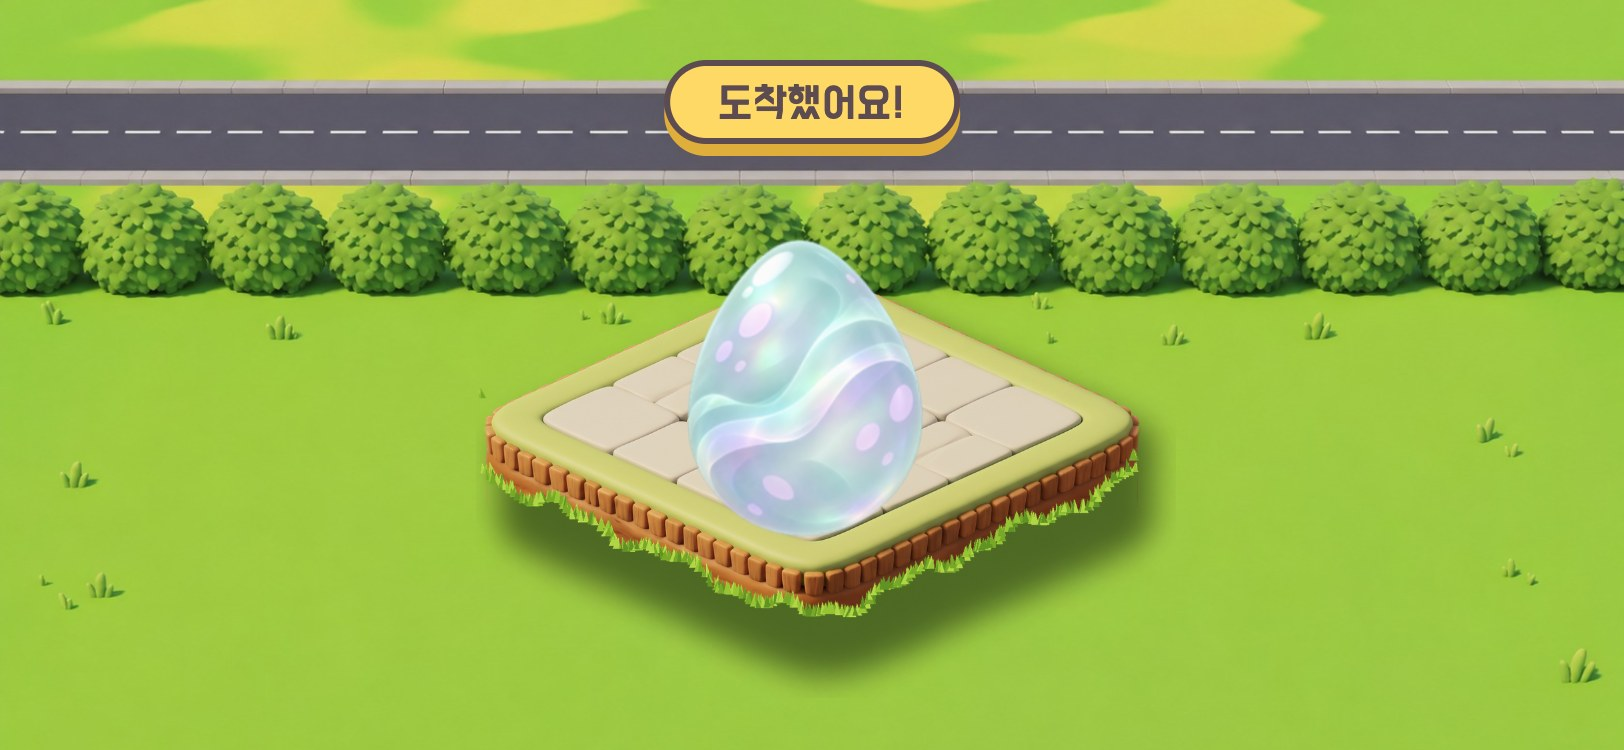
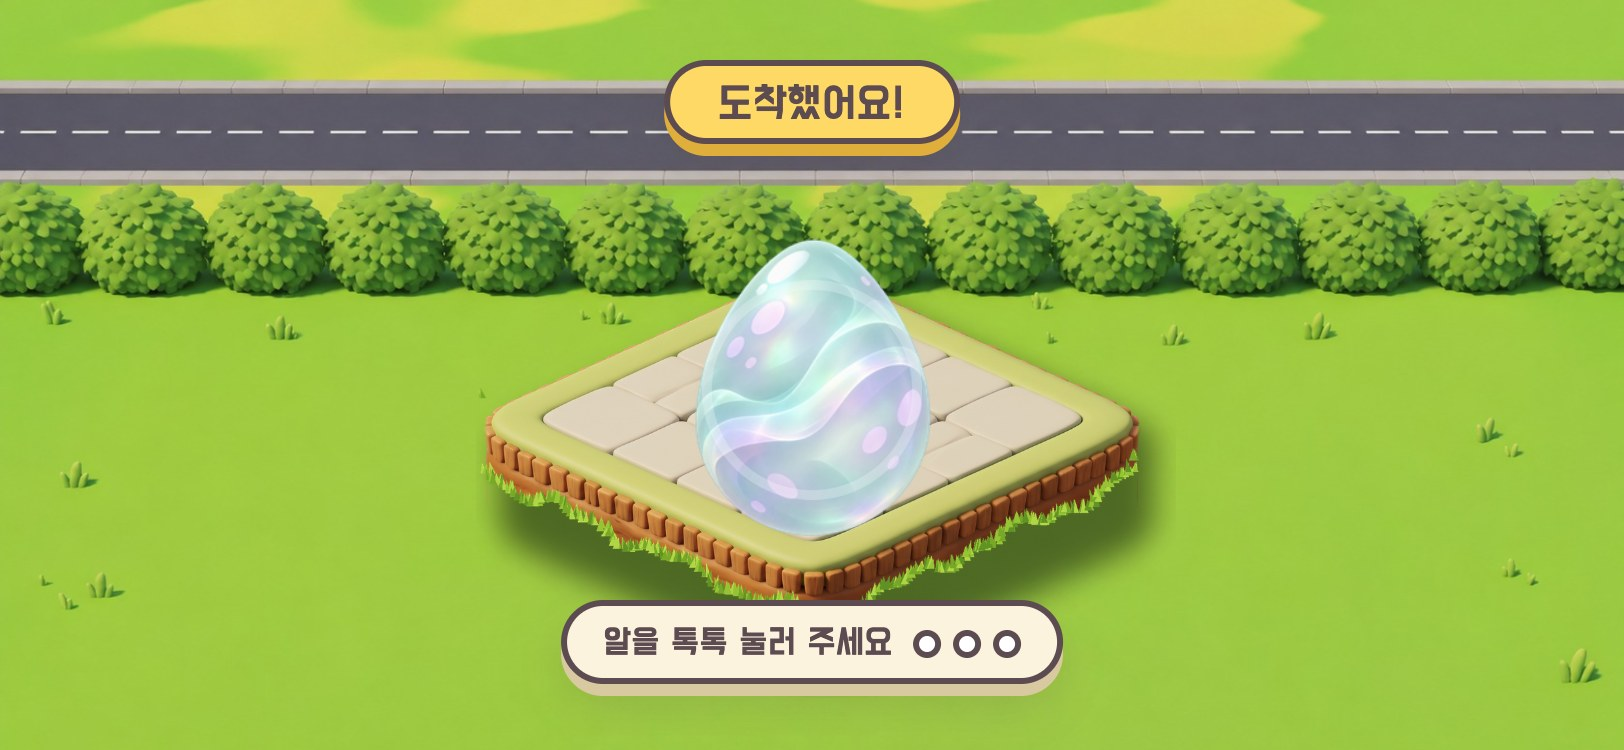
docs: port the cinematic hatch reveal into allo-flow and retake hatch screenshots
Tap-to-crack with auto advance, split shell, squash-and-stretch pop, tier based confetti and rings, staggered name reveal. 06a-06d screenshots retaken.

diff --git a/docs/mockups/v2/allo-flow.html b/docs/mockups/v2/allo-flow.html
@@ -244,6 +244,31 @@ button.px:not(.tile):not(.tg):not(.row):not(.set):active{transform:translateY(5p
 button.px.g:not(.camp),button.px.b{--fg:#fff;-webkit-text-stroke:4px var(--N);paint-order:stroke fill}
 button.px.g.sm,button.px.b.sm{-webkit-text-stroke:0}
 button.px[disabled]{box-shadow:inset 0 2px 0 #ffffff80,0 4px 0 0 var(--sh),0 4px 0 3px #8A7A80 !important}
+
+/* 부화 연출 개정: 직접 눌러 깨기 → 갈라짐 → 튀어나옴 → 공개 */
+#hvig{position:absolute;inset:0;z-index:12;pointer-events:none;opacity:0;transition:opacity .6s;background:radial-gradient(ellipse at 50% 58%,#0000 30%,#14163aa6 100%)}
+#s-hatch.v #hvig{opacity:1}
+#hz{position:absolute;z-index:20;left:50%;top:96px;width:190px;height:190px;margin-left:-95px;transform-origin:50% 100%;cursor:pointer;outline-offset:6px}
+#hz>*{position:absolute;inset:0;width:100%;height:100%}#hz img{object-fit:contain;display:block}
+.hzh{display:none!important}#hz.b .hzh{display:block!important}#hz.b #hz0,#hz.b #hzc{display:none}#hz.b{pointer-events:none}
+#hz[data-t="0"]{animation:hzwob 2.4s ease-in-out infinite}#hz[data-t="1"]{animation:hzshk .6s ease-in-out infinite}#hz[data-t="2"]{animation:hzshk .32s ease-in-out infinite}
+@keyframes hzwob{0%,100%{transform:rotate(-4deg)}50%{transform:rotate(4deg)}}@keyframes hzshk{0%,100%{transform:rotate(-6deg) translateX(-2px)}50%{transform:rotate(6deg) translateX(2px)}}
+#hz0{transition:filter .3s}#hz[data-t="1"] #hz0{filter:brightness(1.05)}#hz[data-t="2"] #hz0{filter:brightness(1.12) drop-shadow(0 0 10px #FFE08A)}#hz[data-t="3"] #hz0{filter:brightness(1.3) drop-shadow(0 0 20px #FFE08A)}
+#hzc{overflow:visible;pointer-events:none;clip-path:ellipse(31% 46% at 50% 54%)}
+#hzc path{stroke-dasharray:140;stroke-dashoffset:140;transition:stroke-dashoffset .3s ease-out}#hzc .ik{stroke:var(--N);stroke-width:6.5}#hzc .lt{stroke:#FFF6C8;stroke-width:2.6;filter:drop-shadow(0 0 4px #FFE08A)}
+#hk3 path{stroke-dasharray:300;stroke-dashoffset:300}
+#hz:is([data-t="1"],[data-t="2"],[data-t="3"]) #hk1 path,#hz:is([data-t="2"],[data-t="3"]) #hk2 path,#hz[data-t="3"] #hk3 path{stroke-dashoffset:0}
+#hzr{position:absolute;z-index:35;left:50%;top:150px;width:90px;height:90px;margin-left:-45px;border-radius:50%;border:4px solid #fff;pointer-events:none;animation:hzrg 1.4s ease-out infinite}
+@keyframes hzrg{0%{transform:scale(.5);opacity:.95}100%{transform:scale(1.5);opacity:0}}
+#hzt{left:50%;top:300px;transform:translateX(-50%);height:42px;padding:0 18px 6px;font-size:18px;gap:10px;white-space:nowrap}
+.hzd{display:flex;gap:6px}.hzd i{width:14px;height:14px;border-radius:50%;border:3px solid var(--N);background:#fff;transition:background .15s,transform .2s}
+#hz[data-t="1"]~#hzt .hzd i:nth-child(-n+1),#hz[data-t="2"]~#hzt .hzd i:nth-child(-n+2){background:var(--y);transform:scale(1.2)}
+#s-hatch.go :is(#hzt,#hzr){display:none}
+#hzw,#hzconf{position:absolute;inset:0;z-index:30;pointer-events:none}#hzconf{z-index:55;overflow:hidden}
+#hzw>*,#hzconf>*{position:absolute;pointer-events:none;top:0;left:0}
+.hztw{animation:hztw 1.6s ease-in-out infinite}@keyframes hztw{0%,100%{opacity:.15;transform:scale(.5)}50%{opacity:1;transform:scale(1)}}
+#hname span.l{display:inline-block;animation:hzl .5s cubic-bezier(.34,1.56,.64,1) both;animation-delay:calc(.1s + var(--i)*.07s)}@keyframes hzl{from{transform:translateY(20px) scale(.6);opacity:0}}
+#hname .tier i{font-style:normal;display:inline-block;animation:hzs .45s cubic-bezier(.34,1.56,.64,1) both;animation-delay:calc(.5s + var(--i)*.16s)}@keyframes hzs{from{transform:scale(0) rotate(-90deg);opacity:0}}
 </style></head><body>
 <div id="side">
 <h1>ALLO 3D 세계</h1><p>전체 12개 화면입니다. 이동은 표지를 눌러도 되고 아래에서 바로 가도 됩니다.</p>
@@ -291,10 +316,14 @@ button.px[disabled]{box-shadow:inset 0 2px 0 #ffffff80,0 4px 0 0 var(--sh),0 4px
  <div class="mm"><button class="px sm" data-m="dex" data-ic="dex" aria-label="도감"></button><button class="px sm" data-m="trip" data-ic="trip" aria-label="여행 기록"></button><button class="px sm" data-m="set" data-ic="set" aria-label="설정"></button></div><button class="px g" id="explore" data-x="1">차 안 둘러보기</button>
 </section>
 <section class="scr" id="s-hatch">
- <div class="px y" id="hmsg">도착했어요!</div><div id="hrays"></div><div id="hglow"></div><div id="hfx"></div>
- <img id="hegg" alt=""><svg id="hcrack" viewBox="0 0 190 190" fill="none" stroke-linecap="round" stroke-linejoin="round"><g class="cr" id="cr1"><path d="M95 40L87 54L100 64L90 78"/></g><g class="cr" id="cr2"><path d="M90 78L105 86L96 100L111 108M90 78L78 90L87 101"/></g><g class="cr" id="cr3"><path d="M95 40L107 51L101 62M100 64L116 70M96 100L84 112"/></g></svg><div class="px" id="hnew">새 친구를 만났어요</div>
+ <div class="px y" id="hmsg">도착했어요!</div><div id="hrays"></div><div id="hglow"></div><div id="hvig"></div><div id="hfx"></div>
+ <div id="hz" data-t="0" tabindex="0" role="button" aria-label="알 톡톡 누르기"><img id="hz0" alt=""><img class="hzh" id="hz1" alt=""><img class="hzh" id="hz2" alt="">
+  <svg id="hzc" viewBox="0 0 190 190" fill="none" stroke-linecap="round" stroke-linejoin="round"><g id="hk1"><path class="ik" d="M95 40L87 54L100 64L90 78"/><path class="lt" d="M95 40L87 54L100 64L90 78"/></g><g id="hk2"><path class="ik" d="M116 70L107 86L124 100M70 104L84 120L72 134"/><path class="lt" d="M116 70L107 86L124 100M70 104L84 120L72 134"/></g><g id="hk3"><path class="ik" id="hk3a"/><path class="lt" id="hk3b"/></g></svg></div>
+ <div id="hzr"></div><div class="px" id="hzt"><span id="hzm">알을 톡톡 눌러 주세요</span><span class="hzd"><i></i><i></i><i></i></span></div>
+ <div id="hzw"></div><div id="hzconf"></div>
+ <div class="px" id="hnew">새 친구를 만났어요</div>
  <img id="hchi" alt="" style="position:absolute;z-index:22;left:50%;top:70px;width:210px;height:210px;margin-left:-105px;object-fit:contain;display:none">
- <div class="px" id="hname"></div><button class="px g" id="hbtn">인사하러 가기</button><div id="hflash" style="position:absolute;inset:0;z-index:40;background:#fff;opacity:0;pointer-events:none"></div>
+ <div class="px" id="hname"></div><button class="px g" id="hbtn">인사하러 가기</button><div id="hflash" style="position:absolute;inset:0;z-index:80;background:#fff;opacity:0;pointer-events:none"></div>
 </section>
 <section class="scr" id="s-cmp">
  <div class="prog" id="pg2"><div class="px bar"></div><div class="px ic"><img alt=""></div><div class="px fl" data-ic="flag"></div></div>
@@ -497,26 +526,65 @@ function run(pg,leftId,total,after){mkbar(pg);let p=st.keep&&PRG[pg]||0;PRG[pg]=
 function enterInc(){$("#pg1 .ic img").src=src(5,"egg");$("#egg-c").src=src(5,"egg");run("#pg1","#ileft",12,()=>go("hatch"))}
 const PEARL=["#FFF6DC","#DDF3EE","#C6E4F5","#E9DDFB"];
 function star(x,y,sz,c,d=0,dur=700,host=$("#hfx")){const e=document.createElement("i");e.className="st";e.style.cssText=`left:${x-sz/2}px;top:${y-sz/2}px;width:${sz}px;height:${sz}px;background:${c}`;host.appendChild(e);e.animate([{transform:"scale(0) rotate(0)",opacity:0},{transform:"scale(1) rotate(45deg)",opacity:1,offset:.4},{transform:"scale(0) rotate(90deg)",opacity:0}],{duration:dur,delay:d,easing:"ease-out",fill:"both"})}
-function enterHatch(){const e=$("#hegg"),ci=$("#hchi"),fx=$("#hfx");fx.innerHTML="";const CX0=406,CY0=190;
- e.src=src(5,"egg");e.style.display="block";e.className="w1";e.style.animation="";ci.style.display="none";$("#hcrack").style.display="block";$$("#hcrack .cr").forEach(c=>c.classList.remove("on"));$("#hrays").classList.remove("on");$("#hglow").style.cssText="";
- ["#hnew","#hname","#hbtn"].forEach(x=>$(x).style.display="none");$("#hmsg").style.display="flex";
- later(()=>{e.className="w2";$("#cr1").classList.add("on");$("#hglow").style.opacity=.45;$("#hglow").style.transform="scale(.8)";for(let i=0;i<4;i++)star(CX0+(Math.random()-.5)*190,CY0+(Math.random()-.5)*170,12+Math.random()*10,"#FFF6DC",i*160)},1100);
- later(()=>{e.className="w3";$("#cr2").classList.add("on");$("#hglow").style.opacity=.8;$("#hglow").style.transform="scale(1)";for(let i=0;i<6;i++)star(CX0+(Math.random()-.5)*210,CY0+(Math.random()-.5)*190,14+Math.random()*12,i%2?"#FFE9A8":"#fff",i*110)},2000);
- later(()=>{$("#cr3").classList.add("on")},2500);
- later(()=>{ /* 번쩍, 껍질 파편, 충격파 */
-  const f=$("#hflash");f.style.animation="none";void f.offsetWidth;f.style.animation="hfl .8s ease-out";
-  e.style.display="none";$("#hcrack").style.display="none";$("#hmsg").style.display="none";
-  const rg=document.createElement("i");rg.className="rg";rg.style.cssText=`left:${CX0-60}px;top:${CY0-60}px;width:120px;height:120px`;fx.appendChild(rg);rg.animate([{transform:"scale(.2)",opacity:1},{transform:"scale(3.4)",opacity:0}],{duration:700,easing:"ease-out",fill:"forwards"});
-  for(let k=0;k<16;k++){const a=-Math.PI/2+(Math.random()-.5)*5.2,r=90+Math.random()*130,w=14+Math.random()*16,sh=document.createElement("i");
-   sh.style.cssText=`left:${CX0-w/2}px;top:${CY0-w/2}px;width:${w}px;height:${w*.8}px;background:${PEARL[k%4]};clip-path:polygon(${Math.random()*30}% 0,100% ${Math.random()*40}%,${60+Math.random()*40}% 100%,0 ${60+Math.random()*40}%);filter:drop-shadow(0 0 1px #5C4B51)`;fx.appendChild(sh);
-   const dx=Math.cos(a)*r,dy=Math.sin(a)*r;sh.animate([{transform:"translate(0,0) rotate(0)",opacity:1},{transform:`translate(${dx}px,${dy}px) rotate(${(Math.random()-.5)*300}deg)`,opacity:1,offset:.45},{transform:`translate(${dx*1.25}px,${dy+170}px) rotate(${(Math.random()-.5)*600}deg)`,opacity:0}],{duration:1100,easing:"cubic-bezier(.2,.7,.4,1)",fill:"forwards"})}
-  for(let k=0;k<9;k++){const a=k/9*6.28,r=100+Math.random()*60;star(CX0+Math.cos(a)*r,CY0-15+Math.sin(a)*r*.75,16+Math.random()*16,k%2?"#FFC53D":"#FFF6DC",120+k*55,900)}
-  $("#hrays").classList.add("on");$("#hglow").style.opacity=.9;$("#hglow").style.transform="scale(1.25)";
-  ci.src=src(5,"joy");ci.style.display="block";ci.style.animation="none";void ci.offsetWidth;ci.style.animation="hpop2 .8s ease-out both";
- },3000);
- later(()=>{$("#hglow").style.opacity=.35;$("#hnew").style.display="flex";$("#hnew").style.animation="none";void $("#hnew").offsetWidth;$("#hnew").style.animation="drop .5s cubic-bezier(.34,1.56,.64,1) both";
-  const [,ko,t]=S[5];$("#hname").innerHTML=`${ko}<span class="tier t${t}">${TIER[t]}</span>`;$("#hname").style.display="flex";$("#hname").style.animation="none";void $("#hname").offsetWidth;$("#hname").style.animation="rise .5s cubic-bezier(.34,1.56,.64,1) both"},3500);
- later(()=>{$("#hbtn").style.display="flex"},4000)}
+var enterHatch=(()=>{
+ const TI=[{stars:0,rc:"#FFFFFFaa",cols:["#fff","#FFE48A","#BFE3F8","#F4A59B","#86D6AE"],k:16,rings:1,punch:1.03,vib:[30,40,60]},
+  {stars:2,rc:"#C2E6FBcc",cols:["#fff","#8CCBF2","#C2E6FB","#FFE48A","#86D6AE"],k:30,rings:1,punch:1.05,vib:[30,30,30,40,80]},
+  {stars:3,rc:"#FFE48Acc",cols:["#FFD04A","#FFF1B8","#fff","#F6B93C","#F4A59B"],k:50,rings:2,punch:1.08,vib:[40,30,40,30,140]}];
+ const CUT=[[0,54],[13,48],[26,56],[38,46],[50,55],[63,47],[76,56],[88,48],[100,54]];
+ const Z=$("#hz"),W=$("#hzw"),CF=$("#hzconf"),CH=$("#hchi"),SC=$("#s-hatch"),CX=406,CY=190;
+ $("#hz1").style.clipPath=`polygon(0 0,100% 0,${CUT.slice().reverse().map(p=>p[0]+"% "+p[1]+"%").join(",")})`;
+ $("#hz2").style.clipPath=`polygon(${CUT.map(p=>p[0]+"% "+p[1]+"%").join(",")},100% 100%,0 100%)`;
+ const zz="M"+CUT.map(p=>(p[0]*1.9).toFixed(1)+" "+(p[1]*1.9).toFixed(1)).join(" L");$("#hk3a").setAttribute("d",zz);$("#hk3b").setAttribute("d",zz);
+ let hs=0,hzt=[],auto,egg="",T=TI[2],ko="";
+ const L=(f,ms)=>hzt.push(setTimeout(()=>{if(st.cur=="hatch")f()},ms));
+ const rnd=(a,b)=>a+Math.random()*(b-a),vib=p=>navigator.vibrate&&navigator.vibrate(p);
+ const mk=(css,host=W)=>{const e=document.createElement("div");e.style.cssText=css;host.appendChild(e);return e};
+ const fly=(el,vx,vy,g,dur,rot)=>{const ks=[];for(let i=0;i<=5;i++){const t=i/5;ks.push({transform:`translate(${vx*t}px,${vy*t+.5*g*t*t}px) rotate(${rot*t}deg)`,opacity:i==5?0:1})}el.animate(ks,{duration:dur,easing:"linear",fill:"both"}).onfinish=()=>el.remove()};
+ const tri=()=>{const a=[rnd(0,40),rnd(0,40),rnd(60,100),rnd(0,30),rnd(20,80),rnd(60,100)];return `polygon(${a[0]}% ${a[1]}%,${a[2]}% ${a[3]}%,${a[4]}% ${a[5]}%)`};
+ const shell=(n,x,y,big)=>{for(let i=0;i<n;i++){const z=big?rnd(26,46):rnd(12,22);
+  fly(mk(`left:${x-z/2}px;top:${y-z/2}px;width:${z}px;height:${z}px;background:url(${egg}) ${-rnd(50,130)}px ${-rnd(40,130)}px/190px 190px;clip-path:${tri()};filter:drop-shadow(0 2px 0 #0003)`),rnd(-1,1)*(big?300:110),-rnd(big?150:50,big?300:130),big?900:700,big?1100:700,rnd(-540,540))}};
+ const confetti=()=>{for(let i=0;i<T.k;i++){const w=i%3==0?9:rnd(7,10),h=i%3==0?9:rnd(12,16),star=i%7==0,x=rnd(30,780),sw=rnd(-60,60);
+  const e=mk(`width:${star?16:w}px;height:${star?16:h}px;background:${T.cols[i%T.cols.length]};border-radius:${i%3==0?"50%":"2px"};${star?"clip-path:polygon(50% 0,62% 38%,100% 50%,62% 62%,50% 100%,38% 62%,0 50%,38% 38%);":""}opacity:0`,CF);
+  e.animate([{transform:`translate(${x}px,-20px) rotate(0)`,opacity:1},{transform:`translate(${x+sw}px,200px) rotate(${rnd(300,700)}deg)`,opacity:1,offset:.55},{transform:`translate(${x-sw}px,400px) rotate(${rnd(700,1200)}deg)`,opacity:.9}],{duration:rnd(2200,3800),delay:rnd(0,700),easing:"cubic-bezier(.3,.2,.5,1)",fill:"backwards"}).onfinish=()=>e.remove()}};
+ const ring=i=>{const e=mk(`left:${CX-20}px;top:${CY-20}px;width:40px;height:40px;border-radius:50%;border:${6-i*2}px solid ${T.rc};opacity:0`);
+  e.animate([{transform:"scale(.4)",opacity:.95},{transform:"scale(13)",opacity:0}],{duration:850,delay:i*160,easing:"cubic-bezier(.2,.7,.3,1)",fill:"both"}).onfinish=()=>e.remove()};
+ const dust=()=>{for(let i=0;i<8;i++){const d=i%2?1:-1,e=mk(`left:${CX+d*rnd(20,60)-14}px;top:${268+rnd(-4,8)}px;width:28px;height:22px;border-radius:50%;background:#FFF6DC`);
+  e.animate([{transform:"translate(0,0) scale(.5)",opacity:.9},{transform:`translate(${d*rnd(40,95)}px,${-rnd(8,28)}px) scale(${rnd(1.6,2.4)})`,opacity:0}],{duration:760,easing:"ease-out",fill:"both"}).onfinish=()=>e.remove()}};
+ const ambient=()=>{for(let i=0;i<9;i++){const z=rnd(10,20);mk(`left:${CX+rnd(-150,150)}px;top:${rnd(60,260)}px;width:${z}px;height:${z}px;background:${T.cols[i%T.cols.length]};clip-path:polygon(50% 0,62% 38%,100% 50%,62% 62%,50% 100%,38% 62%,0 50%,38% 38%);animation-delay:${rnd(0,1.6)}s`).className="hztw"}};
+ const msg=()=>{$("#hzm").textContent=["알을 톡톡 눌러 주세요","좋아요! 한 번 더","마지막 한 번!",""][hs]||""};
+ const arm=()=>{clearTimeout(auto);auto=setTimeout(()=>{if(st.cur=="hatch"&&hs<3)tap()},1500)};
+ function tap(){if(hs>=3)return;
+  Z.animate([{transform:"scale(1,1)"},{transform:"scale(1.14,.86)",offset:.25},{transform:"scale(.93,1.1)",offset:.55},{transform:"scale(1,1)"}],{duration:380,easing:"ease-out"});vib(15);
+  if(hs<2){hs++;Z.dataset.t=hs;$("#hglow").style.opacity=[0,.3,.6][hs];$("#hglow").style.transform=`scale(${[.5,.8,1][hs]})`;SC.classList.toggle("v",hs>=2);
+   shell(6,CX+rnd(-30,30),170+rnd(-20,30));$("#s-hatch").animate([{transform:"translate(0,0)"},{transform:"translate(2px,-1px)"},{transform:"translate(-2px,1px)"},{transform:"translate(0,0)"}],{duration:160});msg();arm()}
+  else burst()}
+ function burst(){hs=3;clearTimeout(auto);Z.dataset.t=3;msg();Z.getAnimations().forEach(a=>a.cancel());
+  Z.animate([{transform:"translate(0,0) rotate(0)"},{transform:"translate(-3px,0) rotate(-7deg) scale(1.05)"},{transform:"translate(3px,0) rotate(7deg) scale(1.05)"},{transform:"translate(0,0) rotate(0)"}],{duration:80,iterations:5});vib(30);
+  L(()=>{SC.classList.add("go");SC.classList.add("v");Z.classList.add("b");$("#hmsg").style.display="none";vib(T.vib);
+   $("#hflash").animate([{opacity:0},{opacity:1,offset:.14},{opacity:0}],{duration:750,easing:"ease-out"});
+   for(const el of [$("#scene"),SC])el.animate([{transform:"scale(1)"},{transform:`scale(${T.punch})`,offset:.14},{transform:"scale(1)"}],{duration:700,easing:"ease-out"});
+   $("#hz1").animate([{transform:"none",opacity:1},{transform:"translate(-46px,-120px) rotate(-36deg)",opacity:1,offset:.55},{transform:"translate(-80px,60px) rotate(-62deg)",opacity:0}],{duration:950,easing:"ease-out",fill:"both"});
+   $("#hz2").animate([{transform:"none",opacity:1},{transform:"translate(10px,12px) rotate(6deg) scaleY(.93)",opacity:1,offset:.3},{transform:"translate(18px,16px) rotate(9deg) scaleY(.9)",opacity:0}],{duration:1200,easing:"ease-out",fill:"both"});
+   shell(16,CX,CY,true);for(let i=0;i<T.rings+1;i++)ring(i);$("#hrays").classList.add("on");$("#hglow").style.opacity=.9;$("#hglow").style.transform="scale(1.25)";
+   L(()=>{CH.src=src(5,"idle");CH.style.display="block";CH.style.transformOrigin="50% 100%";CH.style.animation="none";
+    CH.animate([
+     {transform:"translateY(40px) scale(.35)",filter:"brightness(3)",opacity:0,easing:"cubic-bezier(.2,.8,.3,1)"},
+     {transform:"translateY(-20px) scale(.82,1.12)",filter:"brightness(2.2)",opacity:1,offset:.16},
+     {transform:"translateY(-34px) scale(.93,1.16)",filter:"brightness(1.5)",offset:.44,easing:"cubic-bezier(.55,0,.9,.55)"},
+     {transform:"translateY(0) scale(1.18,.82)",filter:"brightness(1.1)",offset:.68},
+     {transform:"translateY(-12px) scale(.96,1.06)",filter:"brightness(1)",offset:.82},
+     {transform:"translateY(0) scale(1,1)",filter:"brightness(1)"}],{duration:1300});
+    L(()=>{dust();vib(25);CH.src=src(5,"joy")},880);confetti()},140);
+   L(()=>{ambient();$("#hglow").style.opacity=.35;const n=$("#hnew");n.style.display="flex";n.style.animation="none";void n.offsetWidth;n.style.animation="drop .5s cubic-bezier(.34,1.56,.64,1) both"},1650);
+   L(()=>{const t=S[5][2],h=$("#hname");h.innerHTML="<span>"+[...ko].map((c,i)=>`<span class="l" style="--i:${i}">${c}</span>`).join("")+"</span>"+`<span class="tier t${t}">${TIER[t]}${T.stars?" "+Array.from({length:T.stars},(_,i)=>`<i style="--i:${i}">★</i>`).join(""):""}</span>`;
+    h.style.display="flex";h.style.animation="none";void h.offsetWidth;h.style.animation="rise .5s cubic-bezier(.34,1.56,.64,1) both"},1950);
+   L(()=>{$("#hbtn").style.display="flex"},2500)},420)}
+ Z.onclick=()=>{if(st.cur=="hatch")tap()};Z.onkeydown=e=>{if(e.key=="Enter"||e.key==" "){e.preventDefault();tap()}};
+ return function(){hzt.forEach(clearTimeout);hzt=[];clearTimeout(auto);hs=0;ko=S[5][1];T=TI[{3:2,2:1}[S[5][2]]||0];egg=src(5,"egg");
+  [Z,CH,$("#hz1"),$("#hz2"),$("#hflash"),$("#scene"),SC].forEach(e=>e.getAnimations().forEach(a=>a.cancel()));
+  W.innerHTML="";CF.innerHTML="";$("#hfx").innerHTML="";["#hz0","#hz1","#hz2"].forEach(i=>$(i).src=egg);
+  Z.className="";Z.dataset.t=0;SC.classList.remove("v","go");CH.style.display="none";CH.style.animation="";
+  $("#hrays").classList.remove("on");$("#hglow").style.cssText="";["#hnew","#hname","#hbtn"].forEach(x=>$(x).style.display="none");$("#hmsg").style.display="flex";msg();arm()}})();
 $("#hbtn").onclick=()=>{if(!OWN.includes(5))OWN.push(5);st.n=Math.max(st.n,6);go("cmp")};
 function enterCmp(){$("#pg2 .ic img").src=src(5,"idle");$("#cbc").src=src(5,"idle");$("#csay").textContent=SAY[st.line++%SAY.length];run("#pg2","#cleft",10,()=>go("arr"))}
 function enterArr(){$("#arc img").src=src(5,"happy");$("#arr b").textContent="바다안개를 만났어요"}$("#arhome").onclick=()=>go("home");
